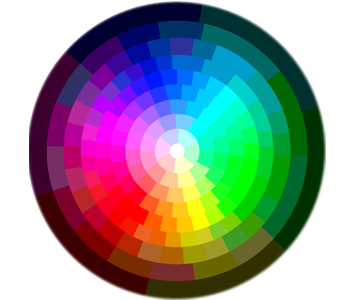
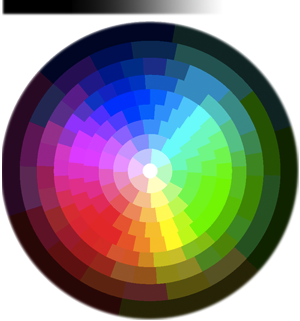
Changed acknowledgements to use UIWebView, color wheel slightly updated

diff --git a/Classes/AckView.m b/Classes/AckView.m
@@ -10,7 +10,7 @@
 
 
 @implementation AckView
-@synthesize navigationItem, tView;
+@synthesize navigationItem, tView, wView;
 
 - (id)initWithNibName:(NSString *)nibNameOrNil bundle:(NSBundle *)nibBundleOrNil {
     if ((self = [super initWithNibName:nibNameOrNil bundle:nibBundleOrNil])) {
@@ -19,12 +19,18 @@
 }
 
 - (void)viewDidLoad {
-	
     [super viewDidLoad];
 	self.navigationItem.title = @"Acknowledgements";
 	self.navigationItem.leftBarButtonItem.title = @"Back";
 	tView.delegate = self;
 	[tView becomeFirstResponder];
+	NSString* ack1 = @"<div style=\"font-family: Helvetica\">";
+	NSString* ack2 = @"<h3>Prof. Gilly Leshed, Assistant Professor, Information Science Department, Cornell University</h3><h3>Gannett Health Services, Cornell University</h3>";
+	NSString* ack3 = @"<h2>The Going Slow Team</h2><ul><li>Akshay Bapat</li><li>Justin Cheng</li><li>Jeremy Crockett</li><li>Greg Thomas</li><li>Nikhil Nawathe</li><li>Kevin Tse</li></ul>";
+	NSString* ack4 = @"<h2>Miscellany</h2><ul><li>Blank Diary Icon from http://bigkobe.deviantart.com</li><li>Tab Bar Icons from http://glyphish.com/</li></ul>";
+	NSString* ack5 = @"</div>";
+	NSString* acknowledgementsText = [NSString stringWithFormat:@"%@%@%@%@%@", ack1, ack2, ack3, ack4, ack5];
+	[wView loadHTMLString:acknowledgementsText baseURL:[NSURL URLWithString:@"about:blank"]];
 }
 
 

diff --git a/Classes/ReflectColorViewController.m b/Classes/ReflectColorViewController.m
@@ -54,9 +54,9 @@
     [super viewDidLoad];
 	[self animateColorWheelToShow:YES duration:0.3];
 	colorWheel.pickedColorDelegate = self;
-	[[colorButton layer] setCornerRadius:8.0f];
+	//[[colorButton layer] setCornerRadius:8.0f];
 	[[colorButton layer] setMasksToBounds:YES];
-	[[colorButton layer] setBorderWidth:1.0f];
+	//[[colorButton layer] setBorderWidth:1.0f];
 	self.navigationItem.title = @"Add Color";
 	self.navigationItem.rightBarButtonItem = saveButton;
 	//self.navigationItem.backBarButtonItem = [[UIBarButtonItem alloc] initWithTitle:@"Back" style:UIBarButtonItemStylePlain target:nil action:nil];

diff --git a/Classes/AckView.h b/Classes/AckView.h
@@ -12,8 +12,10 @@
 @interface AckView : UIViewController {
 	UITextView *tView;
 	UINavigationItem *navigationItem;
+	UIWebView *wView;
 }
 
 @property (nonatomic,retain) IBOutlet UITextView *tView;
 @property (nonatomic,retain) IBOutlet UINavigationItem *navigationItem;
+@property (nonatomic,retain) IBOutlet UIWebView *wView;
 @end
